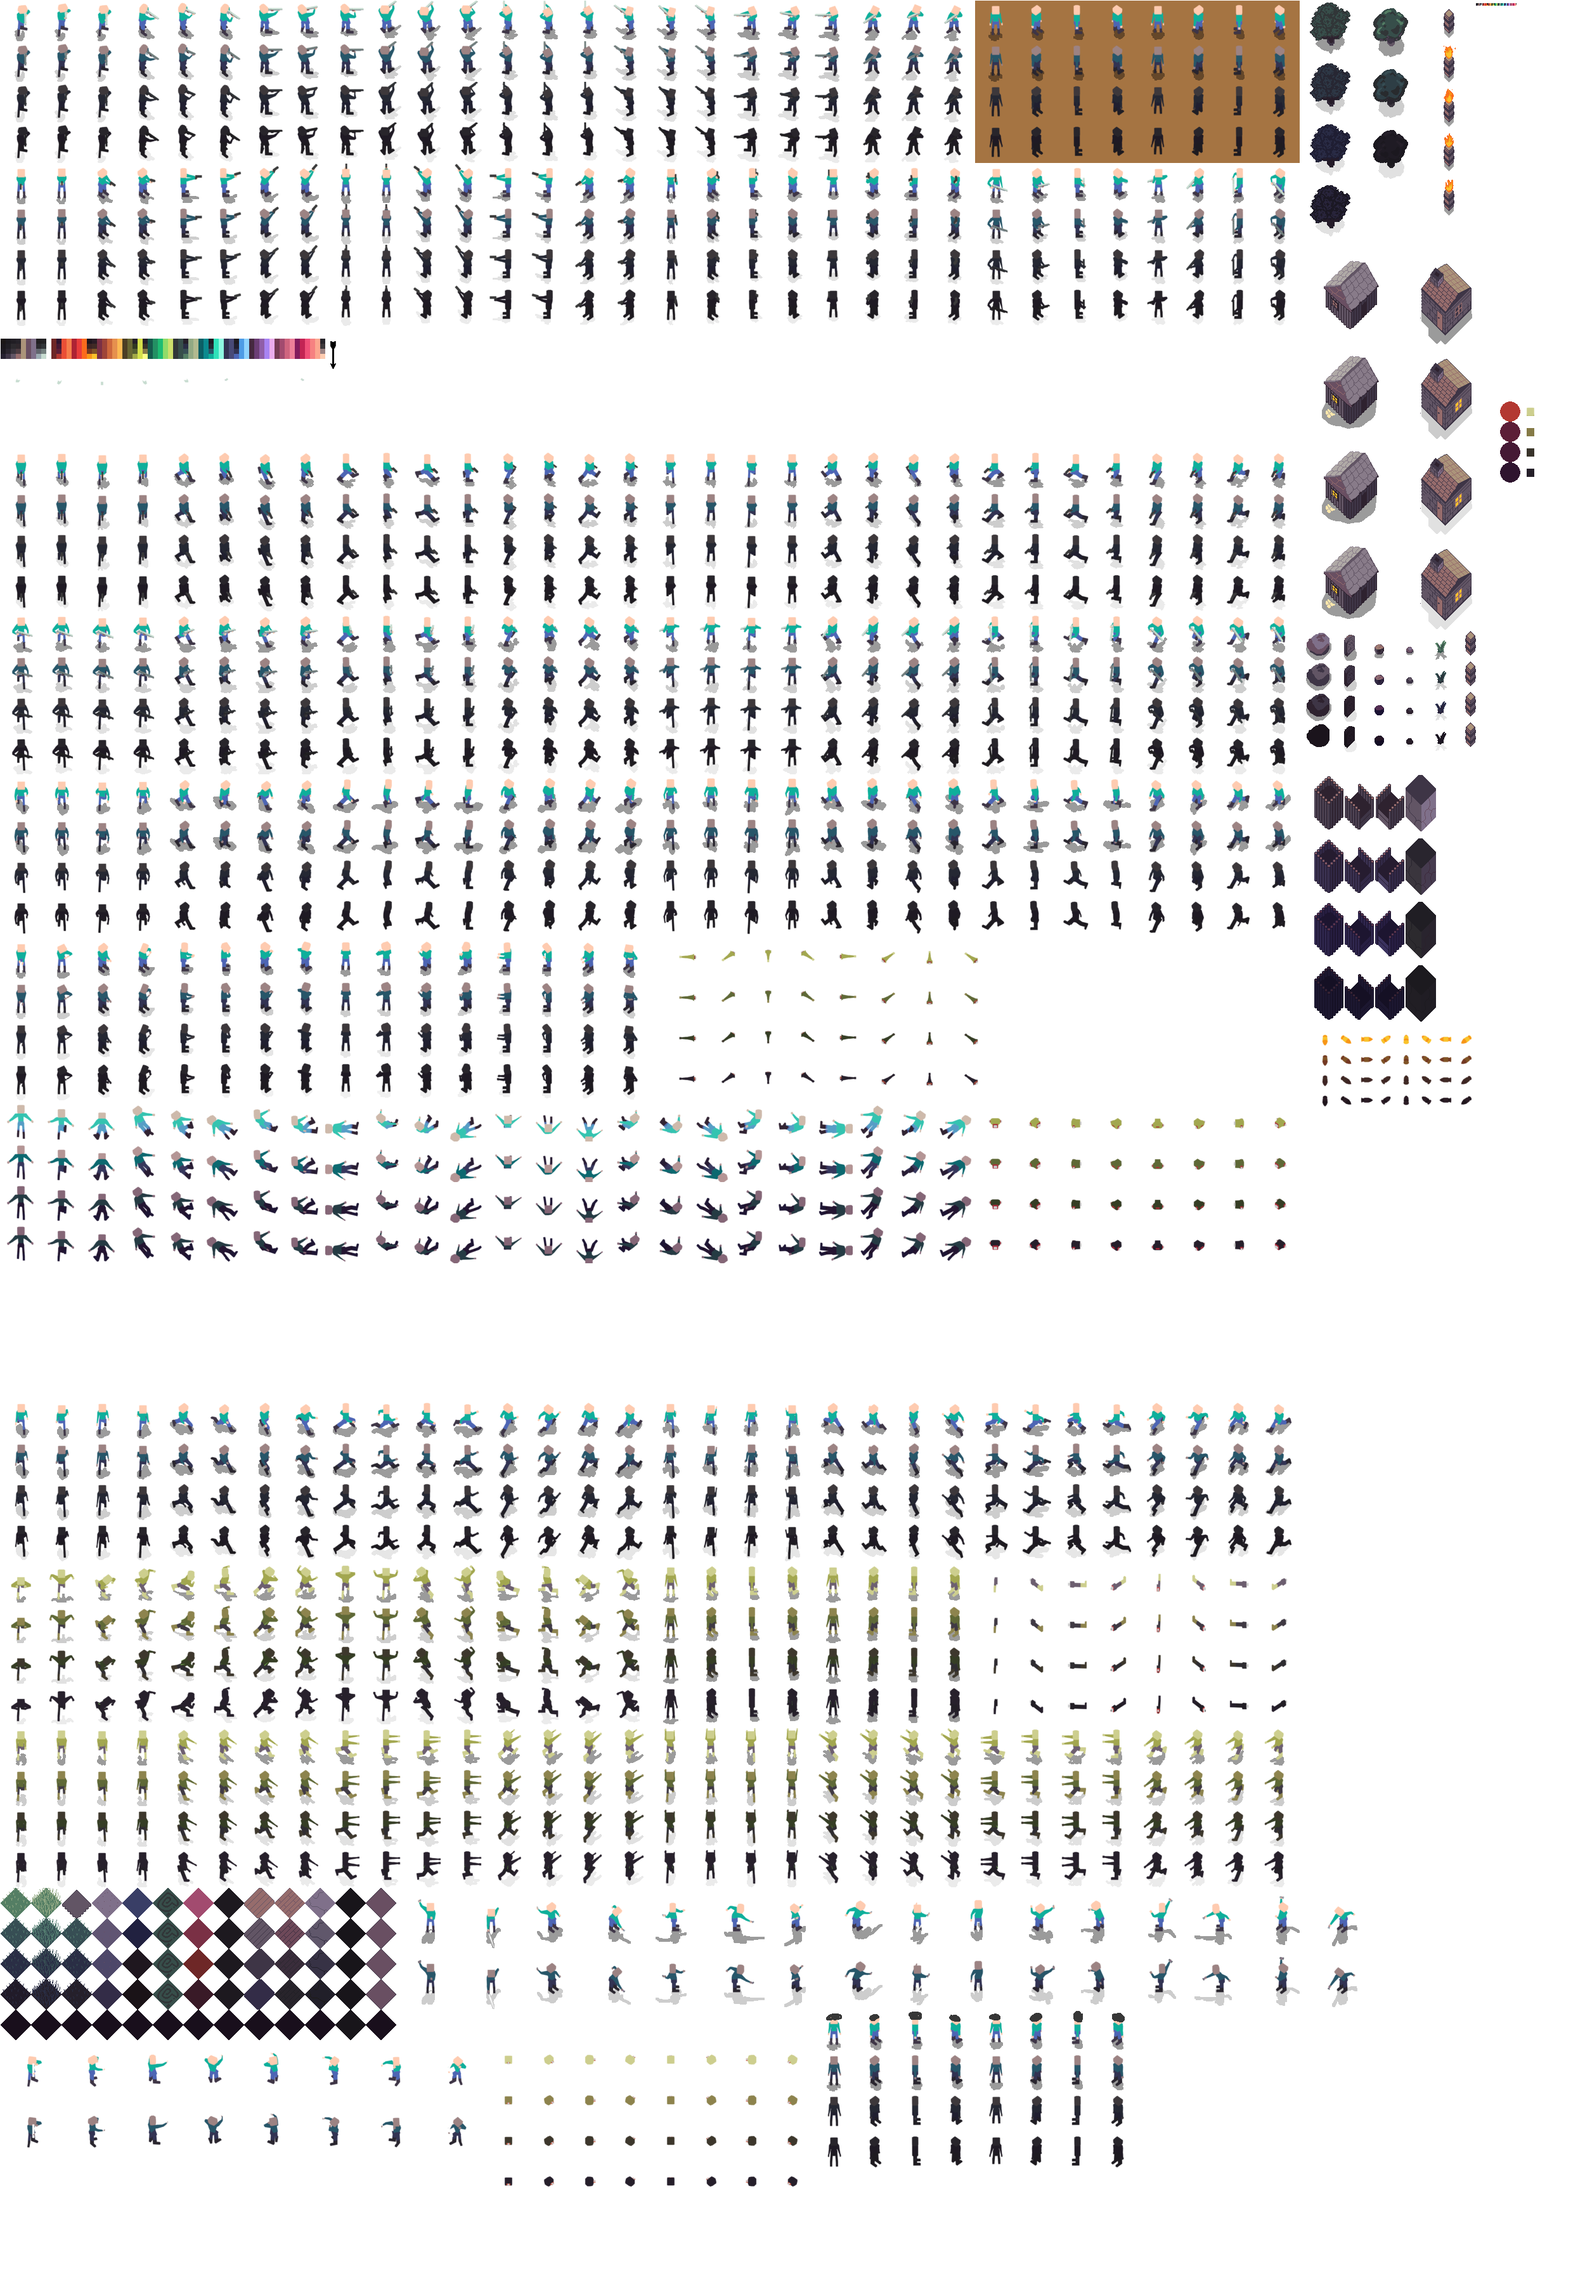
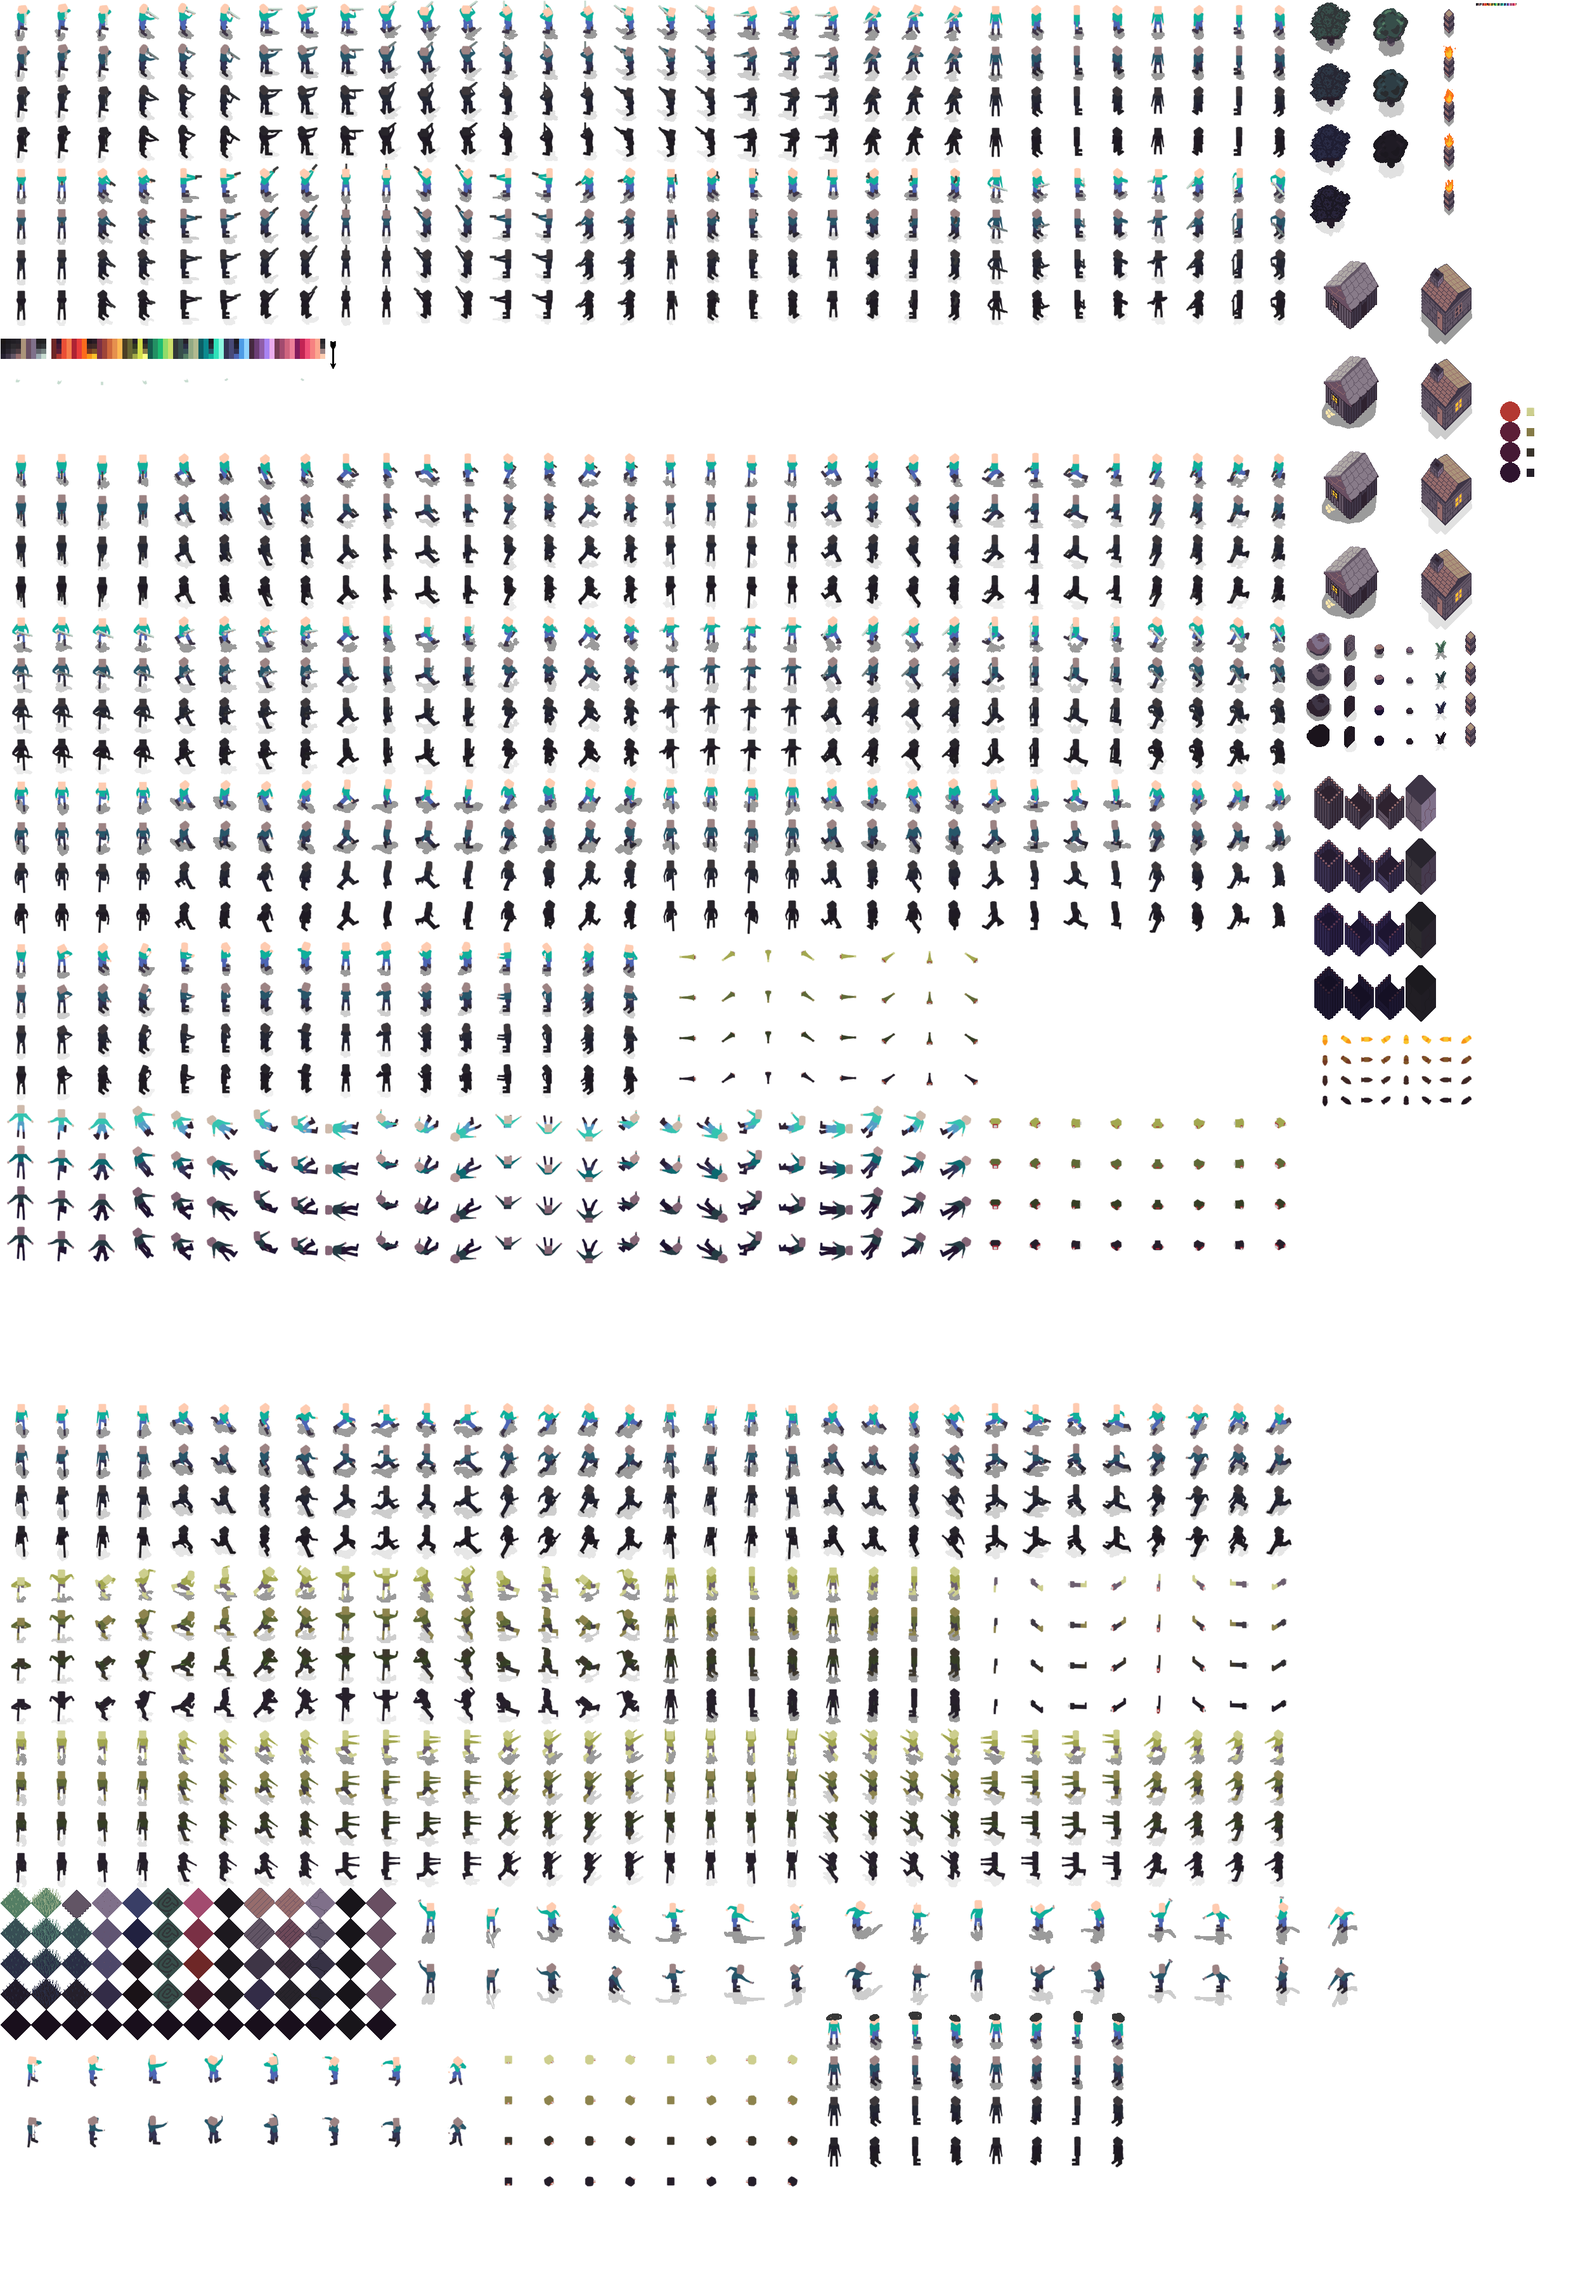
saving

Changed region(s): [[0.5928, 0.0, 0.8424, 0.0933]]

diff --git a/bleed-client/lib/render/mappers/mapCharacterDst.dart b/bleed-client/lib/render/mappers/mapCharacterDst.dart
@@ -10,7 +10,7 @@ import 'mapDst.dart';
 
 Float32List mapCharacterDst(Character character, CharacterType type) {
 
-  if (type == CharacterType.Human){
+  if (type == CharacterType.Human || type == CharacterType.Witch){
     if (character.state == CharacterState.Striking){
       return mapDst(
           scale: manScale,
